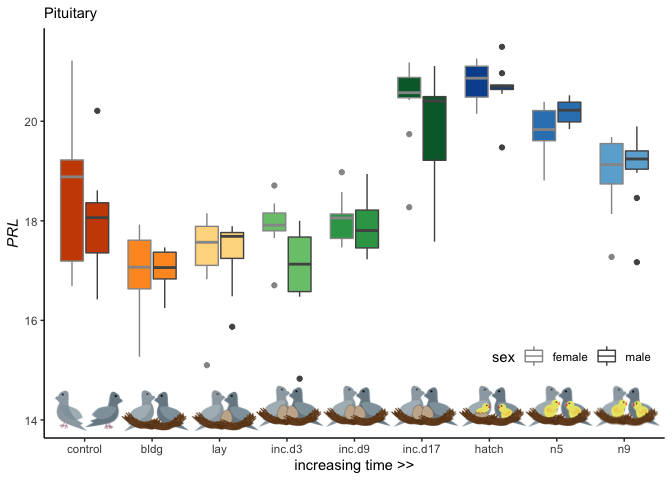
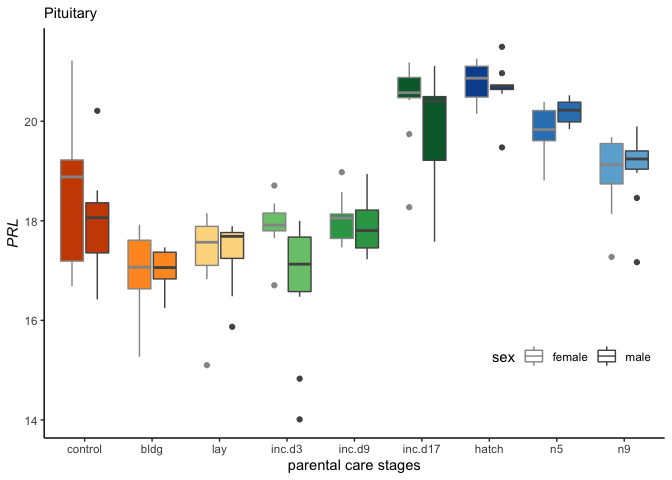
for twitter

Changed region(s): [[0.0625, 0.7812, 1.0, 0.9062], [0.4375, 0.9375, 0.625, 1.0]]

diff --git a/analysis/16_PRL.md b/analysis/16_PRL.md
@@ -3,14 +3,14 @@ Plots with Prolactin
 
     library(tidyverse)
 
-    ## ── Attaching packages ────────────────────────────────────────────────── tidyverse 1.3.0 ──
+    ## ── Attaching packages ────────────────────────────────────── tidyverse 1.3.0 ──
 
     ## ✔ ggplot2 3.2.1     ✔ purrr   0.3.3
     ## ✔ tibble  2.1.3     ✔ dplyr   0.8.3
     ## ✔ tidyr   1.0.0     ✔ stringr 1.4.0
     ## ✔ readr   1.3.1     ✔ forcats 0.4.0
 
-    ## ── Conflicts ───────────────────────────────────────────────────── tidyverse_conflicts() ──
+    ## ── Conflicts ───────────────────────────────────────── tidyverse_conflicts() ──
     ## ✖ dplyr::filter() masks stats::filter()
     ## ✖ dplyr::lag()    masks stats::lag()
 
@@ -200,14 +200,18 @@ Prolactin (*PRL*) and *BRCA1* expression in the pituitary
       dplyr::filter(treatment %in% charlevels) %>%
       ggplot(aes(x = treatment, y = PRL)) + 
         geom_boxplot(aes(fill = treatment, color = sex)) + 
-        scale_alpha_manual(values = c(0.75,1)) +
         theme_B3() +
       theme(legend.position = c(0.85,0.2), legend.direction = "horizontal") + 
       scale_color_manual(values = sexcolors) +
       scale_fill_manual(values = colorscharnew) +
-      labs(y = "PRL", x = "increasing time >>", subtitle = "Pituitary" ) +
+      labs(y = "PRL", x = "parental care stages", subtitle = "Pituitary" ) +
       guides(fill = FALSE, alpha = FALSE, color = guide_legend(order=1)) +
-      theme(axis.title.y  = element_text(face = "italic"))  +
+      theme(axis.title.y  = element_text(face = "italic")) 
+    p2
+
+![](../figures/PRL/PRL.pit-1.png)
+
+    p2+
       annotation_custom(control, ymin = 13.5, ymax = 15, xmin = -7.5) +
       annotation_custom(bldg, ymin = 13.5, ymax = 15, xmin = -5.5) +
       annotation_custom(lay, ymin = 13.5, ymax = 15, xmin = -3.5) +
@@ -216,10 +220,9 @@ Prolactin (*PRL*) and *BRCA1* expression in the pituitary
       annotation_custom(inc, ymin = 13.5, ymax = 15, xmin = 2.5) +
       annotation_custom(hatch, ymin = 13.5, ymax = 15, xmin = 4.5) +
       annotation_custom(nestling, ymin = 13.5, ymax = 15, xmin = 6.5) +
-      annotation_custom(nestling, ymin = 13.5, ymax = 15, xmin = 8.5)   
-    p2
+      annotation_custom(nestling, ymin = 13.5, ymax = 15, xmin = 8.5) 
 
-![](../figures/PRL/PRL.pit-1.png)
+![](../figures/PRL/PRL.pit-2.png)
 
     plot_grid(p1 + theme(legend.position ="none",
                          axis.title.x = element_blank(),
